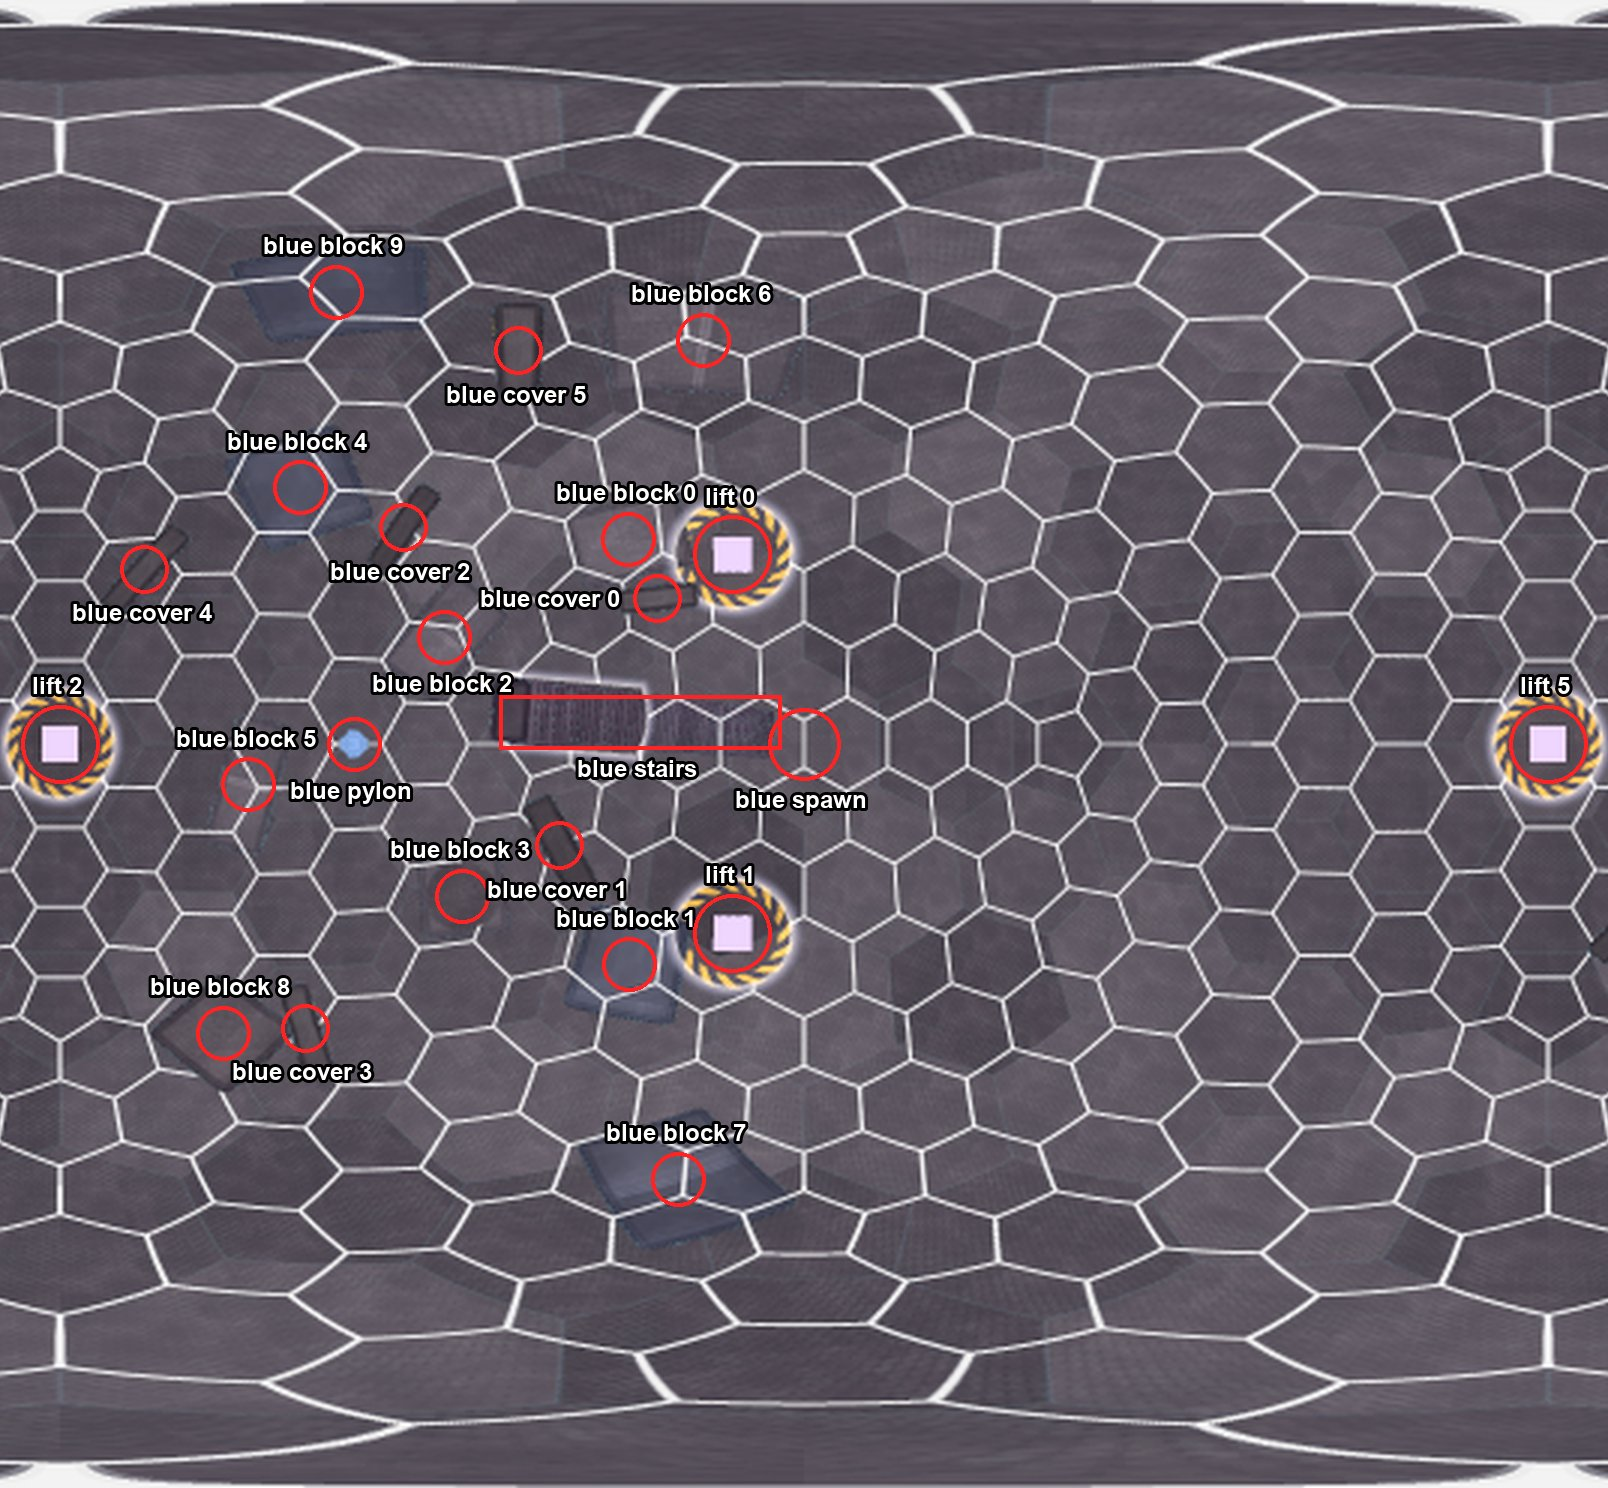
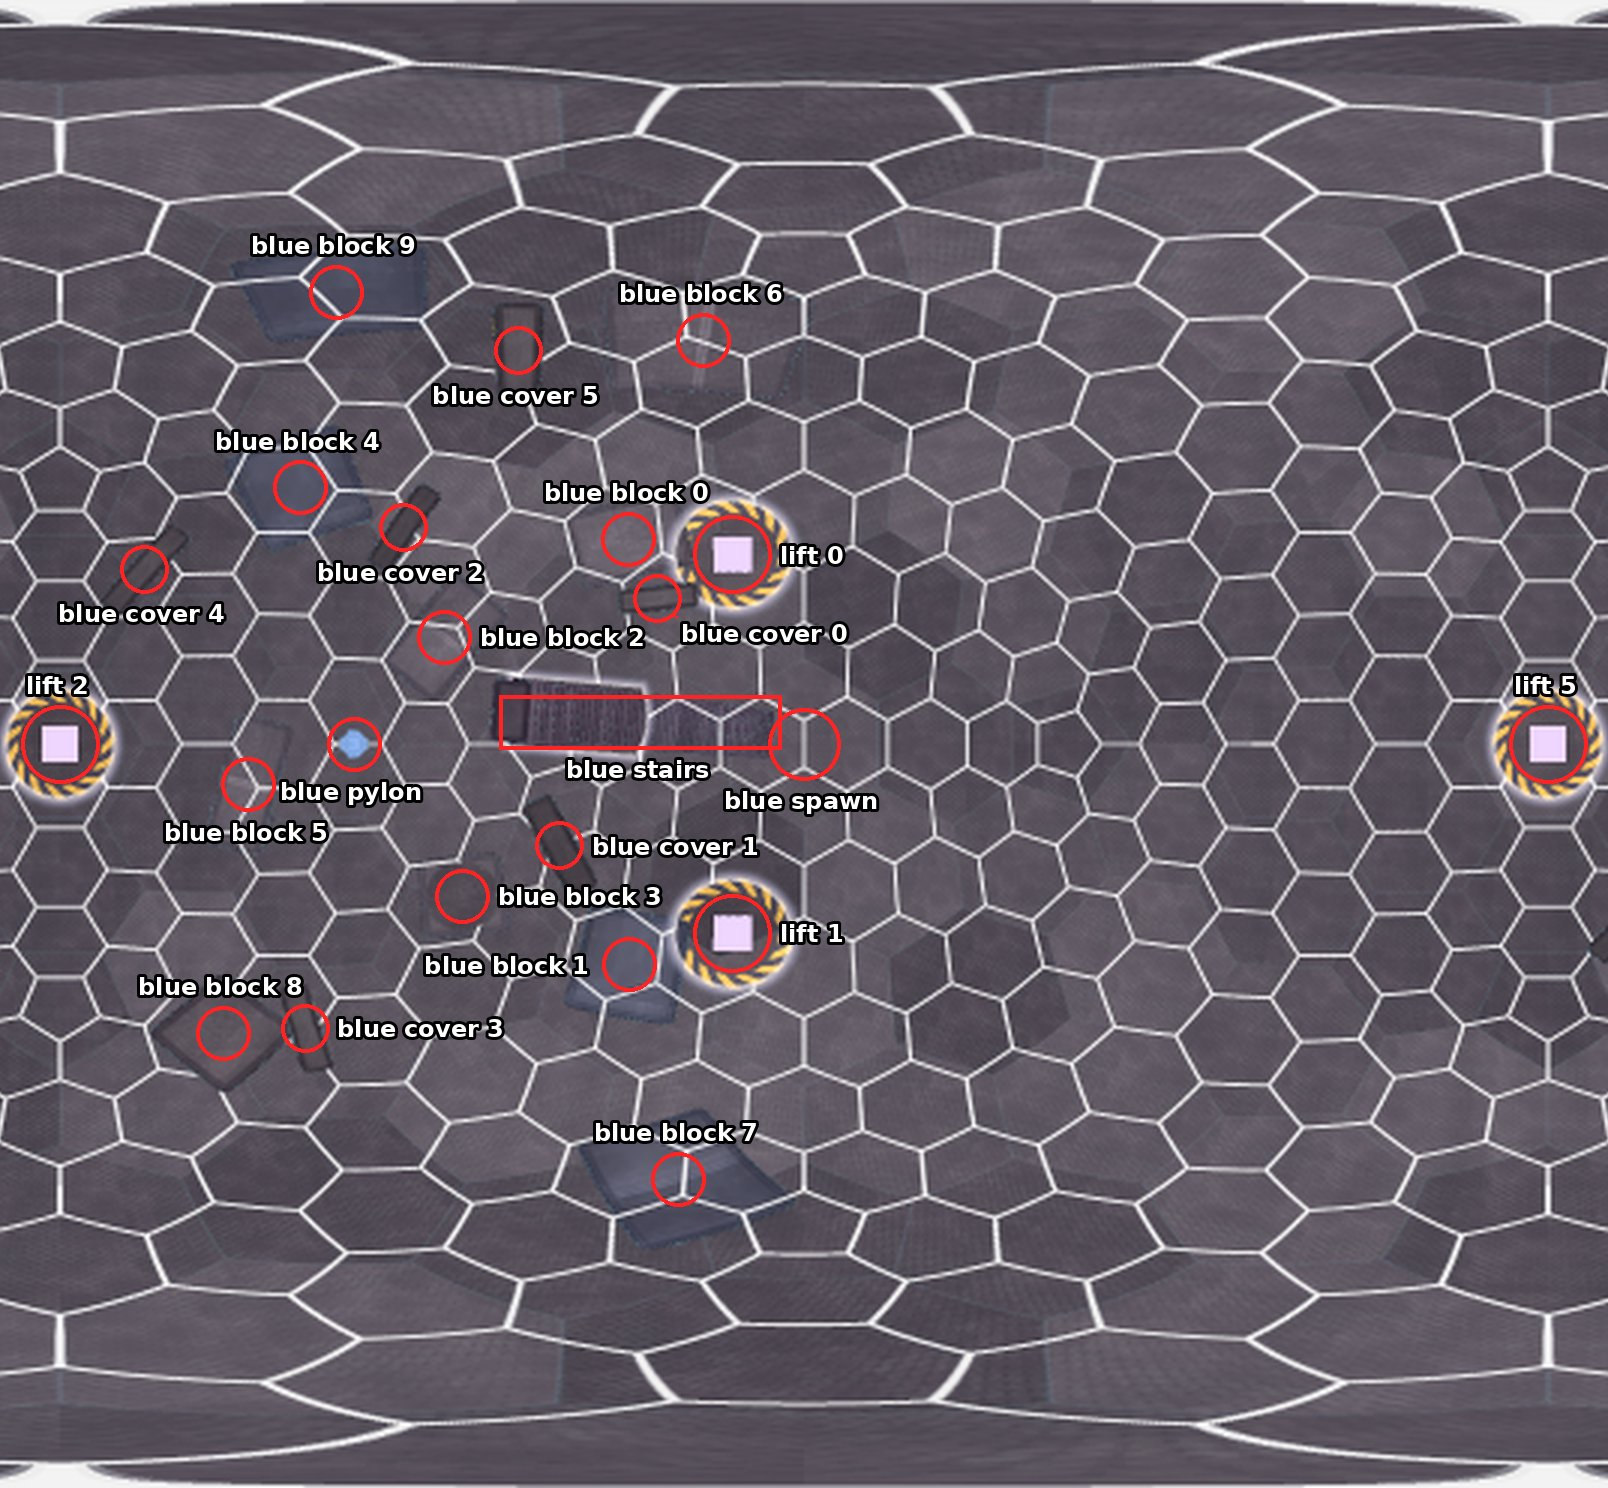
fix(notes): the world pictures place their labels so none overlap or get cut off
Every draft picture had labels that overlapped, sat over another mark or ran
off the crop. annotate.py now places each label itself: it tries the
preferred side first, then the others, and keeps the label inside the crop and
off earlier labels and other marks; a label pushed away from its mark gets a
thin line back to it, and a trailing "!" pins a label where a script wants it.
Dark Forest gains its six missing ladders, and its middle zone is drawn at 3x
so the centre is readable. Lunar Surface names the landing pad and its mouth
separately, gets room to label its outer hesco walls, and carries its
"drawn from the level layout" caption on each picture.

AGENT TRACES

* Cursor Cloud Agent claude-opus-5-5-high, trace bc-94920122-6130-4e3d-bf9f-13da367e9d4c, cloud
  contributed: made the label placer, added the Dark Forest ladders, fixed the Lunar Surface labels, redrew all 12 pictures
  workspace: /home/ubuntu/wt-handoff, branch claude/glossary-handoff
  transcript: https://cursor.com/agents/bc-94920122-6130-4e3d-bf9f-13da367e9d4c
  read it: open https://cursor.com/agents/bc-94920122-6130-4e3d-bf9f-13da367e9d4c

Kind: fix
Component: tooling
Domain: none
Area: notes/handoffs/20261110-glossary-worlds
Read: notes/handoffs/20261110-glossary-worlds/tools/annotate.py
Verify: reran all five world_*.py tools with Python 3 and Pillow 13 and looked at all 12 pictures, zooming into the Dark Forest centre; no label overlaps another or leaves its picture

diff --git a/notes/handoffs/20261110-glossary-worlds/tools/annotate.py b/notes/handoffs/20261110-glossary-worlds/tools/annotate.py
@@ -18,43 +18,82 @@ def fermi_pos(frame, radius_m):
     x, _, z, w = frame[12:16]
     return radius_m * math.atanh(z / w), radius_m * math.asinh(x)
 
-def annotate(picture, scale_up, to_px, marks, out_name, crop=None, font_px=30, line_px=5):
-    """marks: (label, len, wid, shape, size_px, anchor); shape 'c' circle (size=radius) or 'r' rect (size=(half_w, half_h)); anchor r/l/t/b."""
+def _overlap(a, b):
+    w = min(a[2], b[2]) - max(a[0], b[0])
+    h = min(a[3], b[3]) - max(a[1], b[1])
+    return w * h if w > 0 and h > 0 else 0
+
+def _label_box(anchor, extra, x, y, hw, hh, tw, th):
+    pad = 8 + extra * (th + 10 if anchor in "tb" else 40)
+    if anchor == "r":
+        return x + hw + pad, y - th / 2
+    if anchor == "l":
+        return x - hw - pad - tw, y - th / 2
+    if anchor == "t":
+        return x - tw / 2, y - hh - pad - th
+    if anchor == "b":
+        return x - tw / 2, y + hh + pad
+    dx = hw * 0.7 + 6 + extra * 30
+    dy = hh * 0.7 + 6 + extra * (th + 6)
+    return (x + dx if anchor[1] == "r" else x - dx - tw), (y - dy - th if anchor[0] == "t" else y + dy)
+
+def annotate(picture, scale_up, to_px, marks, out_name, crop=None, font_px=30, line_px=5, bottom_margin_px=8):
+    """marks: (label, len, wid, shape, size_px, anchor); shape 'c' circle (size=radius) or 'r' rect (size=(half_w, half_h)); anchor r/l/t/b/tr/tl/br/bl[N] is the preferred side, and a trailing "!" pins the label there.
+
+    Each label goes on the first side, in preference order, where it stays inside the crop and off the labels placed
+    before it and off every other mark; a label pushed away from its mark gets a thin line back to it.
+    """
     img = Image.open(picture).convert("RGB")
     if scale_up != 1:
         img = img.resize((int(img.width * scale_up), int(img.height * scale_up)), Image.LANCZOS)
     draw = ImageDraw.Draw(img)
     font = ImageFont.truetype(FONT_PATH, font_px)
+    bounds = tuple(c * scale_up for c in crop) if crop is not None else (0, 0, img.width, img.height)
+    shapes = []
     for label, length, wid, shape, size, anchor in marks:
         x, y = to_px(length, wid)
         x, y = x * scale_up, y * scale_up
+        hw, hh = (size * scale_up, size * scale_up) if shape == "c" else (size[0] * scale_up, size[1] * scale_up)
+        shapes.append((x, y, hw, hh))
         if shape == "c":
-            r = size * scale_up
-            draw.ellipse([x - r, y - r, x + r, y + r], outline=RED, width=line_px)
-            hw = hh = r
+            draw.ellipse([x - hw, y - hh, x + hw, y + hh], outline=RED, width=line_px)
         else:
-            hw, hh = size[0] * scale_up, size[1] * scale_up
             draw.rectangle([x - hw, y - hh, x + hw, y + hh], outline=RED, width=line_px)
+    placed = []
+    texts = []
+    for i in sorted(range(len(marks)), key=lambda i: not marks[i][5].endswith("!")):
+        label, anchor = marks[i][0], marks[i][5]
+        is_pinned = anchor.endswith("!")
+        anchor = anchor.rstrip("!")
+        x, y, hw, hh = shapes[i]
         box = draw.textbbox((0, 0), label, font=font, stroke_width=3)
         tw, th = box[2] - box[0], box[3] - box[1]
-        pad = 8
-        extra = int(anchor[1:]) - 1 if len(anchor) > 1 else 0
-        anchor = anchor[0]
-        if anchor in "tb":
-            pad += extra * (th + 10)
-        else:
-            pad += extra * 40
-        if anchor == "r":
-            tx, ty = x + hw + pad, y - th / 2
-        elif anchor == "l":
-            tx, ty = x - hw - pad - tw, y - th / 2
-        elif anchor == "t":
-            tx, ty = x - tw / 2, y - hh - pad - th
-        else:
-            tx, ty = x - tw / 2, y + hh + pad
-        tx = min(max(tx, 4), img.width - tw - 4)
-        ty = min(max(ty, 4), img.height - th - 8)
-        draw.text((tx, ty - box[1]), label, font=font, fill=(255, 255, 255), stroke_width=3, stroke_fill=(0, 0, 0))
+        side = anchor.rstrip("0123456789")
+        first = (side, int(anchor[len(side):]) - 1 if len(anchor) > len(side) else 0)
+        candidates = [first] if is_pinned else [first] + [(a, e) for e in range(3) for a in ("r", "l", "t", "b", "tr", "tl", "br", "bl")]
+        best = None
+        for rank, (a, e) in enumerate(candidates):
+            tx, ty = _label_box(a, e, x, y, hw, hh, tw, th)
+            rect = (tx - 3, ty - 3, tx + tw + 3, ty + th + 3)
+            outside = max(0, bounds[0] + 4 - rect[0]) + max(0, rect[2] - bounds[2] + 4) + max(0, bounds[1] + 4 - rect[1]) + max(0, rect[3] - bounds[3] + bottom_margin_px)
+            cost = outside * 1000 + sum(_overlap(rect, p) for p in placed) * 10
+            cost += sum(_overlap(rect, (sx - shw, sy - shh, sx + shw, sy + shh)) for j, (sx, sy, shw, shh) in enumerate(shapes) if j != i) * 3
+            if best is None or cost < best[0]:
+                best = (cost, tx, ty, rect, a, e)
+            if cost == 0:
+                break
+        _, tx, ty, rect, a, e = best
+        placed.append(rect)
+        if e > 0 or len(a) == 2:
+            lx = min(max(x, rect[0]), rect[2])
+            ly = min(max(y, rect[1]), rect[3])
+            dist = math.hypot(lx - x, ly - y)
+            if dist > max(hw, hh) + 4:
+                k = min(hw, hh) / dist
+                draw.line([x + (lx - x) * k, y + (ly - y) * k, lx, ly], fill=RED, width=max(2, line_px - 2))
+        texts.append((tx, ty - box[1], label))
+    for tx, ty, label in texts:
+        draw.text((tx, ty), label, font=font, fill=(255, 255, 255), stroke_width=3, stroke_fill=(0, 0, 0))
     if crop is not None:
         img = img.crop(tuple(int(c * scale_up) for c in crop))
     OUT.mkdir(exist_ok=True)

diff --git a/notes/handoffs/20261110-glossary-worlds/tools/world_lunar.py b/notes/handoffs/20261110-glossary-worlds/tools/world_lunar.py
@@ -41,9 +41,6 @@ for name, u, v in spawns:
     x, y = to_px(u, v)
     colour = (90, 150, 255) if name.startswith("blue") else (255, 90, 80)
     draw.polygon([(x, y - 14), (x + 12, y + 10), (x - 12, y + 10)], fill=colour)
-caption_font = ImageFont.truetype(FONT_PATH, 22)
-for x0 in (10, 850, 1650):
-    draw.text((x0, H - 34), "Drawn from the level layout, not a game screenshot", font=caption_font, fill=(190, 190, 190))
 base_path = OUT / "_lunar_base.png"
 OUT.mkdir(exist_ok=True)
 base.save(base_path)
@@ -52,7 +49,7 @@ def pick(name, z):
     return sorted([(u, v) for n, u, v in singles + warps + spawns if n == name and zone(u) == z], key=lambda t: (-t[0], t[1]))
 def C(label, pos, r, anchor="r"):
     return (label, pos[0], pos[1], "c", r, anchor)
-WALL_ANCHORS = {"blue": ["b", "t", "b", "r", "r", "b", "t"], "red": ["t", "b"]}
+WALL_ANCHORS = {"blue": ["b", "t", "b", "r", "r", "r", "r"], "red": ["t", "b"]}
 def wall_marks(team, order):
     ws = sorted([w for w in walls if zone(w[1]) == team], key=order)
     return [(f"{team} hesco wall {i + 1}", w[1], w[2], "r", (w[3] * S / 2 + 12, w[4] * S / 2 + 12), WALL_ANCHORS[team][i]) for i, w in enumerate(ws)]
@@ -77,14 +74,19 @@ rp = sorted(pick("red pylon", "red"), key=lambda t: -t[1])
 RED_ZONE = [
     C("red spawn", pick("red spawn", "red")[0], 20, "b"), C("red hangar", pick("red spawn hangar", "red")[0], 38, "t"),
     C("red left pylon", rp[0], 18, "b"), C("red mid pylon", rp[1], 18, "t"), C("red right pylon", rp[2], 18, "t"),
-    C("red habitat", pick("red habitat module", "red")[0], 30, "b"), C("red landing pad and pad mouth", pick("red landing pad", "red")[0], 38, "b"),
+    C("red habitat", pick("red habitat module", "red")[0], 30, "b"), C("red landing pad, red pad mouth", pick("red landing pad", "red")[0], 38, "b"),
     C("red solar array", pick("red solar array", "red")[0], 24, "t"), C("red crates", pick("red crates", "red")[0], 18, "b"),
     C("red watchtower", pick("red watchtower", "red")[0], 18, "t"), C("red dome", pick("red dome", "red")[0], 28, "b"),
     C("red antenna", pick("red antenna", "red")[0], 16, "b"), C("red walkway", pick("red walkway", "red")[0], 28, "t"),
 ] + wall_marks("red", lambda w: (w[1], w[2]))
-annotate(base_path, 1, to_px, BLUE, "lunar_surface_map_1_blue_zone.jpg", crop=(0, 0, 900, H), font_px=26, line_px=4)
-annotate(base_path, 1, to_px, MID, "lunar_surface_map_2_middle_zone.jpg", crop=(820, 0, 1820, H), font_px=26, line_px=4)
-annotate(base_path, 1, to_px, RED_ZONE, "lunar_surface_map_3_red_zone.jpg", crop=(1740, 0, W, H), font_px=26, line_px=4)
+annotate(base_path, 1, to_px, BLUE, "lunar_surface_map_1_blue_zone.jpg", crop=(0, 0, 1180, H), font_px=26, line_px=4, bottom_margin_px=44)
+annotate(base_path, 1, to_px, MID, "lunar_surface_map_2_middle_zone.jpg", crop=(820, 0, 1820, H), font_px=26, line_px=4, bottom_margin_px=44)
+annotate(base_path, 1, to_px, RED_ZONE, "lunar_surface_map_3_red_zone.jpg", crop=(1740, 0, W, H), font_px=26, line_px=4, bottom_margin_px=44)
 base_path.unlink()
+caption_font = ImageFont.truetype(FONT_PATH, 22)
+for out_name in ("lunar_surface_map_1_blue_zone.jpg", "lunar_surface_map_2_middle_zone.jpg", "lunar_surface_map_3_red_zone.jpg"):
+    pic = Image.open(OUT / out_name)
+    ImageDraw.Draw(pic).text((10, H - 34), "Drawn from the level layout, not a game screenshot", font=caption_font, fill=(190, 190, 190))
+    pic.save(OUT / out_name, "JPEG", quality=85)
 for nm, ms in [("BLUE", BLUE), ("MID", MID), ("RED", RED_ZONE)]:
     print(nm, [(m[0], round(m[1]), round(m[2])) for m in ms])

diff --git a/notes/handoffs/20261110-glossary-worlds/tools/world_dark_forest.py b/notes/handoffs/20261110-glossary-worlds/tools/world_dark_forest.py
@@ -28,9 +28,9 @@ BLUE = [
     C("blue spawn", (-53, 0), 26, "t"),
     R("blue palisade", "blue palisade", "r"),
     C("blue left pylon", pyl["blue pylon 0"], 14, "b"),
-    R("blue treehouse", "blue treehouse", "t"),
+    R("blue treehouse", "blue treehouse", "tl!"),
     C("blue right pylon", pyl["blue pylon 1"], 14, "l"),
-    C("blue treehouse ladder", lad["blue treehouse ladder"], 10, "r"),
+    C("blue treehouse ladder", lad["blue treehouse ladder"], 10, "r!"),
     R("blue home bridge", "blue home bridge", "l"),
     C("blue rock 3", groups["blue rock 3"][0][:2], 14, "t"),
     C("blue rock 2", groups["blue rock 2"][0][:2], 14, "r"),
@@ -60,6 +60,12 @@ MID = [
     C("red rock 0", groups["red rock 0"][0][:2], 14, "l"),
     R("red middle deck", "red middle deck", "r"),
     C("red middle ladder", lad["red middle ladder"], 10, "l"),
+    C("blue flank ladder", lad["blue flank ladder"], 10, "l"),
+    C("red flank ladder", lad["red flank ladder"], 10, "r"),
+    C("blue lookout ladder", lad["blue lookout ladder"], 10, "l!"),
+    C("red lookout ladder", lad["red lookout ladder"], 10, "br"),
+    C("blue centre ladder", lad["blue centre ladder"], 10, "tr!"),
+    C("red centre ladder", lad["red centre ladder"], 10, "bl"),
 ]
 RED_ZONE = [
     C("mid gate, red mouth", warp["gate 2 mouth 0"], 34, "l"),
@@ -68,14 +74,14 @@ RED_ZONE = [
     C("red rock 3", groups["red rock 3"][0][:2], 14, "b"),
     C("red home gate, mouth A", warp["gate 3 mouth 0"], 22, "l"),
     C("red home gate, mouth B", warp["gate 3 mouth 1"], 22, "t"),
-    R("red treehouse", "red treehouse", "b"),
-    C("red right pylon", pyl["red pylon 1"], 14, "r"),
+    R("red treehouse", "red treehouse", "br!"),
+    C("red right pylon", pyl["red pylon 1"], 14, "r!"),
     R("red palisade", "red palisade", "l"),
     C("red left pylon", pyl["red pylon 0"], 14, "t"),
-    C("red treehouse ladder", lad["red treehouse ladder"], 10, "l"),
+    C("red treehouse ladder", lad["red treehouse ladder"], 10, "l!"),
     C("red spawn", (53, 0), 26, "b"),
 ]
 pic = REPO / "demos/dark_forest_rust/assets/map_picture.png"
 annotate(pic, 2, to_px, BLUE, "dark_forest_map_1_blue_zone.jpg", crop=(0, 80, 840, 480), font_px=30)
-annotate(pic, 2, to_px, MID, "dark_forest_map_2_middle_zone.jpg", crop=(0, 400, 840, 960), font_px=30)
+annotate(pic, 3, to_px, MID, "dark_forest_map_2_middle_zone.jpg", crop=(0, 400, 840, 960), font_px=32, line_px=6)
 annotate(pic, 2, to_px, RED_ZONE, "dark_forest_map_3_red_zone.jpg", crop=(0, 880, 840, 1280), font_px=30)
